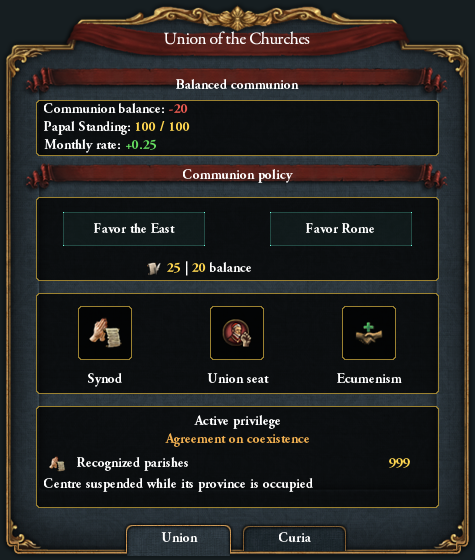
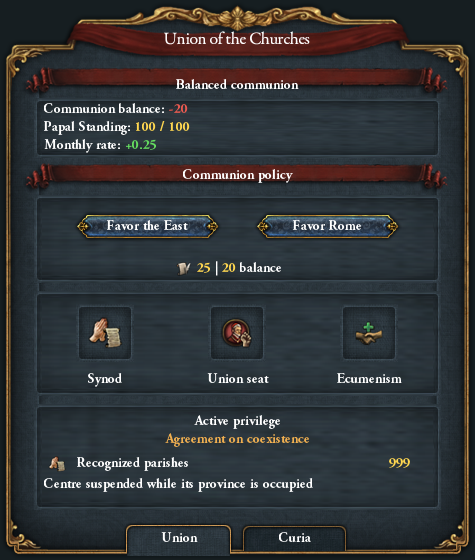
style(gc_church): Уточнити візуальний стиль та розташування елементів інтерфейсу
Замінено великі анімовані кнопки напрямку на компактні нативні `button_type_1`. Плашки та квадратні слоти тепер використовують текстуру `copts_blessing_slot.dds` для кращої візуальної інтеграції. Виконано точне коригування розташування щитів, іконок та сітки петицій для покращення симетрії та відповідності нативному стилю EU4. Оновлено документацію та скрипти генерації інтерфейсу.

diff --git a/tools/build_church_gui.py b/tools/build_church_gui.py
@@ -46,10 +46,10 @@ def art(name,sprite,x,y,scale=1):
 
 def inset(name,x,y,w,h):
     sprite='GFX_rip_church_inset_'+name
-    insets.append(f'corneredTileSpriteType = {{ name = "{sprite}" textureFile = "gfx/interface/small_tiles_dialog.dds" size = {{ x={w} y={h} }} borderSize = {{ x=8 y=8 }} }}')
+    insets.append(f'corneredTileSpriteType = {{ name = "{sprite}" textureFile = "gfx/interface/copts_blessing_slot.dds" size = {{ x={w} y={h} }} borderSize = {{ x=8 y=8 }} }}')
     return art('rip_church_inset_'+name,sprite,x,y)
 
-insets=['corneredTileSpriteType = { name = "GFX_rip_church_action_slot" textureFile = "gfx/interface/small_tiles_dialog.dds" size = { x=58 y=58 } borderSize = { x=8 y=8 } }']
+insets=['corneredTileSpriteType = { name = "GFX_rip_church_action_slot" textureFile = "gfx/interface/copts_blessing_slot.dds" size = { x=58 y=58 } borderSize = { x=8 y=8 } }']
 def panel(name,condition,body,x=540,y=8,clean=False):
     defs.append(f'custom_window = {{ name = {name} potential = {{ {condition} }} }}')
     background = ('GFX_rip_church_union_frame' if clean else 'GFX_country_religion_view_bg')
@@ -91,14 +91,14 @@ gc+=text('rip_church_gc_heading',28,28,w=419,h=26,font='vic_22',align='center')
 gc+=text('rip_church_gc_orientation',28,76,w=419,h=20,align='center')
 gc+=text('rip_church_gc_resources',44,100,w=387,h=54)
 gc+=text('rip_church_gc_policy_label',28,166,w=419,h=22,align='center')
-gc+=button('rip_church_east_button',51,200,
+gc+=button('rip_church_east_button',73,211,
            'rip_church_can_shift_communion = yes check_variable = { which = rip_church_communion value = -99.999 }',
-           'rip_church_gc_shift_east_effect = yes',sprite='GFX_standard_button_142_34_button')
-gc+=button('rip_church_rome_button',258,200,
+           'rip_church_gc_shift_east_effect = yes',sprite='button_type_1')
+gc+=button('rip_church_rome_button',253,211,
            'rip_church_can_shift_communion = yes NOT = { check_variable = { which = rip_church_communion value = 100 } }',
-           'rip_church_gc_shift_rome_effect = yes',sprite='GFX_standard_button_142_34_button')
-gc+=art('rip_church_gc_adm_icon','GFX_icon_powers_administrative',143,258,0.7)
-gc+=text('rip_church_gc_policy_cost',167,259,w=210,h=18)
+           'rip_church_gc_shift_rome_effect = yes',sprite='button_type_1')
+gc+=art('rip_church_gc_adm_icon','GFX_icon_powers_administrative',173,258,0.7)
+gc+=text('rip_church_gc_policy_cost',197,259,w=150,h=18)
 # Reuse the RO panel's native framed illustrations and compact buttons.
 # These are action shortcuts, so they deliberately have no policy-active glow.
 for i,(key,name,trigger,effect) in enumerate((
@@ -120,7 +120,7 @@ gc+=gc_tabs('union')
 curia=inset('rome_status',34,98,407,64)+inset('petitions',34,195,407,150)+inset('curia_privilege',34,356,407,60)+inset('donation',34,426,407,84)
 curia+=text('rip_church_gc_curia_heading',28,28,w=419,h=26,font='vic_22',align='center')
 curia+=text('rip_church_gc_curia_status',28,76,w=419,h=20,align='center')
-curia+=shield('rip_church_gc_pope_shield',46,102,'rip_church_gc_rome',
+curia+=shield('rip_church_gc_pope_shield',41,98,'rip_church_gc_rome',
               'has_global_flag = rip_church_gc_rome_known rip_church_gc_rome_present = yes','GFX_shield_medium')
 curia+=text('rip_church_gc_rome_resources',116,102,w=247,h=54)
 curia+=shield('rip_church_gc_controller_shield',386,114,'rip_church_gc_controller',
@@ -128,7 +128,7 @@ curia+=shield('rip_church_gc_controller_shield',386,114,'rip_church_gc_controlle
 curia+=text('rip_church_gc_petitions_title',28,166,w=419,h=22,align='center')
 # Identical frame order to Catholic papal actions in 00_religion.txt / papacy.gfx.
 for i,key in enumerate(('church_tax','blessing','indulgence','saint','usury','holy_war','legate','monopoly')):
-    x=26+(i%4)*106; y=211+(i//4)*68
+    x=22+(i%4)*106; y=211+(i//4)*68
     curia+=button('rip_church_gc_petition_'+key+'_button',x+32,y,
                   'rip_church_gc_can_petition_'+key+' = yes','rip_church_gc_petition_'+key+'_effect = yes',
                   sprite='GFX_papacy_action_strip',frame=i+1,label=False)

diff --git a/tools/preview_church_gui.py b/tools/preview_church_gui.py
@@ -113,6 +113,7 @@ for kind,payload in entries:
         native=d['quadTextureSprite']
         if native in tiles: sprite=tiles[native]
         elif native in sprite_paths: sprite=asset(sprite_paths[native])
+        elif native=='button_type_1': sprite=asset('gfx/interface/button_type_1.tga')
         elif native=='GFX_tab_small_116':
             sprite=asset('gfx/interface/tab_small_116.dds')
             n=int(dict(bindings[d['name']]['frame'])['number'])-1

diff --git a/docs/CHURCH_REDESIGN_VERIFICATION.uk.md b/docs/CHURCH_REDESIGN_VERIFICATION.uk.md
@@ -40,6 +40,16 @@
 квадратними кнопками та закладками ще не спостерігалася в EU4;
 поведінку натискань скриншоти не підтверджують.
 
+Наступне узгодження стилю: великі анімовані кнопки напрямку замінено
+нативними синіми `button_type_1` 149×31. Їхні центри 147,5 і 327,5
+симетричні відносно осі панелі 237,5. Сітку петицій зміщено на 4 пікселі
+ліворуч: її вісь 237 відрізняється від осі панелі лише на пів пікселя.
+Для щитів враховано справжні розміри 64×64 і 32×32: їхні центри
+розташовані на спільній висоті 130 та симетрично по горизонталі, 73 і 402.
+Плашки й квадратні слоти використовують `copts_blessing_slot.dds` замість
+чорної діалогової заливки. Перевірено макети обох вкладок за нативними
+розмірами та шрифтами; нове відображення в рушії ще не спостерігалося.
+
 Довідка залишена лише в документі; кнопки Guide та три довідкові події
 видалені. Накладання на порожній нативний селектор ікон ГК тепер відкриває
 місцевий синод через Synod. Старі назви, координати й батьківські елементи

diff --git a/docs/GREEK_CATHOLIC_WINDOW_GUIDE.uk.md b/docs/GREEK_CATHOLIC_WINDOW_GUIDE.uk.md
@@ -9,7 +9,9 @@
 
 Вікно оформлено за зразком РП: нативний синій фон, червоні заголовки,
 рамки та піктограми EU4. Внутрішні плашки відділяють ресурси, політику,
-церковні дії та чинний привілей. Дві кнопки напрямку стоять поруч;
+церковні дії та чинний привілей. Плашки повторно використовують фактуру
+нативних церковних слотів, без чорних заливок і зайвих золотих обводок.
+Дві компактні сині кнопки напрямку 149×31 стоять поруч симетрично;
 нижче показано значок ADM і ціну. Жовтий виділяє ресурси, зелений —
 приріст, червоний — від'ємний баланс, помаранчевий — назву привілею.
 Три квадратні кнопки з іконками всередині, зліва направо:
